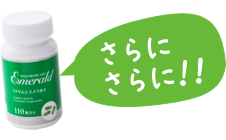
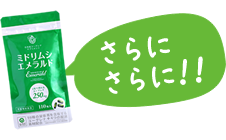
20191010 (スマホも完了)サイト画像を新パウチに変更 ※しばらくボトルメインで「パウチはこちらで買えます」ボタンで対応するそうなので、別ブランチで置いておきます

diff --git a/sp/order/emerald01.html b/sp/order/emerald01.html
@@ -57,12 +57,12 @@ j=d.createElement(s),dl=l!='dataLayer'?'&l='+l:'';j.async=true;j.src=
 <!-- InstanceBeginEditable name="article" -->
 <article id="container" class="order">
   <h2>ミドリムシエメラルド １個110粒</h2>
-  <div id="slider">
+  <!-- <div id="slider">
     <div class="item active"><img src="../img/order_emerald/emerald01b.jpg" alt="Slide 1" class="img40"></div>
-    <div class="item"><a href="emerald_sl01.html" target="_blank" class="zoom26"><img src="../../img/order_emerald/bottle1b.jpg" alt="Slide 2" class="img25"><span class="zoom"> </span></a></div>
-    <div class="item"><a href="emerald_sl02.html" target="_blank" class="zoom26"><img src="../../img/order_emerald/bottle2b.jpg" alt="Slide 3" class="img25"><span class="zoom"> </span></a></div>
-    <div class="item"><a href="emerald_sl03.html" target="_blank" class="zoom26"><img src="../../img/order_emerald/bottle3b.jpg" alt="Slide 4" class="img25"><span class="zoom"> </span></a></div>
-  </div><section class="orderdetail">
+<div class="item"><a href="emerald_sl01.html" target="_blank" class="zoom26"><img src="../../img/order_emerald/bottle1b.jpg" alt="Slide 2" class="img25"><span class="zoom"> </span></a></div><div class="item"><a href="emerald_sl02.html" target="_blank" class="zoom26"><img src="../../img/order_emerald/bottle2b.jpg" alt="Slide 3" class="img25"><span class="zoom"> </span></a></div><div class="item"><a href="emerald_sl03.html" target="_blank" class="zoom26"><img src="../../img/order_emerald/bottle3b.jpg" alt="Slide 4" class="img25"><span class="zoom"> </span></a></div>
+  </div> -->
+  <div class="itemimg"><img src="../img/order_emerald/emerald01b.jpg"></div>
+  <section class="orderdetail">
     <div class="aboutbox">
       <section class="aboutitem">
         <p class="itemname">ミドリムシエメラルド</p>

diff --git a/sp/order/emerald30.html b/sp/order/emerald30.html
@@ -58,10 +58,11 @@ j=d.createElement(s),dl=l!='dataLayer'?'&l='+l:'';j.async=true;j.src=
 <!-- InstanceBeginEditable name="article" -->
 <article id="container" class="order">
   <h2>ミドリムシエメラルド ３０個セット</h2>
-  <div id="slider">
+  <!-- <div id="slider">
     <div class="item active"><img src="../img/order_emerald/emerald30b.jpg" alt="Slide 1" class="img40"></div>
 <div class="item"><a href="emerald_sl01.html" target="_blank" class="zoom26"><img src="../../img/order_emerald/bottle1b.jpg" alt="Slide 2" class="img25"><span class="zoom"> </span></a></div><div class="item"><a href="emerald_sl02.html" target="_blank" class="zoom26"><img src="../../img/order_emerald/bottle2b.jpg" alt="Slide 3" class="img25"><span class="zoom"> </span></a></div><div class="item"><a href="emerald_sl03.html" target="_blank" class="zoom26"><img src="../../img/order_emerald/bottle3b.jpg" alt="Slide 4" class="img25"><span class="zoom"> </span></a></div>
-  </div><!-- #BeginLibraryItem "/Library/emerald_detail.lbi" -->
+  </div> -->
+  <div class="itemimg"><img src="../img/order_emerald/emerald30b.jpg"></div><!-- #BeginLibraryItem "/Library/emerald_detail.lbi" -->
 <div class="w96 mt-10">
 <dl>
   <dt>●商品名</dt>

diff --git a/sp/order/emerald24.html b/sp/order/emerald24.html
@@ -62,10 +62,11 @@ document.write(addIp);
 <!-- InstanceBeginEditable name="article" -->
 <article id="container" class="order">
   <h2>ミドリムシエメラルド ２４個セット</h2>
-  <div id="slider">
+  <!-- <div id="slider">
     <div class="item active"><img src="../img/order_emerald/emerald24b.jpg" alt="Slide 1" class="img40"></div>
 <div class="item"><a href="emerald_sl01.html" target="_blank" class="zoom26"><img src="../../img/order_emerald/bottle1b.jpg" alt="Slide 2" class="img25"><span class="zoom"> </span></a></div><div class="item"><a href="emerald_sl02.html" target="_blank" class="zoom26"><img src="../../img/order_emerald/bottle2b.jpg" alt="Slide 3" class="img25"><span class="zoom"> </span></a></div><div class="item"><a href="emerald_sl03.html" target="_blank" class="zoom26"><img src="../../img/order_emerald/bottle3b.jpg" alt="Slide 4" class="img25"><span class="zoom"> </span></a></div>
-  </div><!-- #BeginLibraryItem "/Library/emerald_detail.lbi" -->
+  </div> -->
+  <div class="itemimg"><img src="../img/order_emerald/emerald24b.jpg"></div><!-- #BeginLibraryItem "/Library/emerald_detail.lbi" -->
 <div class="w96 mt-10">
 <dl>
   <dt>●商品名</dt>

diff --git a/sp/order/emerald10.html b/sp/order/emerald10.html
@@ -58,10 +58,11 @@ j=d.createElement(s),dl=l!='dataLayer'?'&l='+l:'';j.async=true;j.src=
 <!-- InstanceBeginEditable name="article" -->
 <article id="container" class="order">
   <h2>ミドリムシエメラルド １０個セット</h2>
-  <div id="slider">
+  <!-- <div id="slider">
     <div class="item active"><img src="../img/order_emerald/emerald10b.jpg" alt="Slide 1" class="img40"></div>
 <div class="item"><a href="emerald_sl01.html" target="_blank" class="zoom26"><img src="../../img/order_emerald/bottle1b.jpg" alt="Slide 2" class="img25"><span class="zoom"> </span></a></div><div class="item"><a href="emerald_sl02.html" target="_blank" class="zoom26"><img src="../../img/order_emerald/bottle2b.jpg" alt="Slide 3" class="img25"><span class="zoom"> </span></a></div><div class="item"><a href="emerald_sl03.html" target="_blank" class="zoom26"><img src="../../img/order_emerald/bottle3b.jpg" alt="Slide 4" class="img25"><span class="zoom"> </span></a></div>
-  </div>
+  </div> -->
+  <div class="itemimg"><img src="../img/order_emerald/emerald10b.jpg"></div>
   <section class="orderdetail">
     <div class="aboutbox">
       <section class="aboutitem">

diff --git a/sp/order/emerald12.html b/sp/order/emerald12.html
@@ -58,10 +58,11 @@ j=d.createElement(s),dl=l!='dataLayer'?'&l='+l:'';j.async=true;j.src=
 <!-- InstanceBeginEditable name="article" -->
 <article id="container" class="order">
   <h2>ミドリムシエメラルド １２個セット</h2>
-  <div id="slider">
+  <!-- <div id="slider">
     <div class="item active"><img src="../img/order_emerald/emerald12b.jpg" alt="Slide 1" class="img40"></div>
 <div class="item"><a href="emerald_sl01.html" target="_blank" class="zoom26"><img src="../../img/order_emerald/bottle1b.jpg" alt="Slide 2" class="img25"><span class="zoom"> </span></a></div><div class="item"><a href="emerald_sl02.html" target="_blank" class="zoom26"><img src="../../img/order_emerald/bottle2b.jpg" alt="Slide 3" class="img25"><span class="zoom"> </span></a></div><div class="item"><a href="emerald_sl03.html" target="_blank" class="zoom26"><img src="../../img/order_emerald/bottle3b.jpg" alt="Slide 4" class="img25"><span class="zoom"> </span></a></div>
-  </div>
+  </div> -->
+  <div class="itemimg"><img src="../img/order_emerald/emerald12b.jpg"></div>
   <section class="orderdetail">
     <div class="aboutbox">
       <section class="aboutitem">

diff --git a/sp/order/emerald15.html b/sp/order/emerald15.html
@@ -58,10 +58,11 @@ j=d.createElement(s),dl=l!='dataLayer'?'&l='+l:'';j.async=true;j.src=
 <!-- InstanceBeginEditable name="article" -->
 <article id="container" class="order">
   <h2>ミドリムシエメラルド １５個セット</h2>
-  <div id="slider">
+  <!-- <div id="slider">
     <div class="item active"><img src="../img/order_emerald/emerald15b.jpg" alt="Slide 1" class="img40"></div>
 <div class="item"><a href="emerald_sl01.html" target="_blank" class="zoom26"><img src="../../img/order_emerald/bottle1b.jpg" alt="Slide 2" class="img25"><span class="zoom"> </span></a></div><div class="item"><a href="emerald_sl02.html" target="_blank" class="zoom26"><img src="../../img/order_emerald/bottle2b.jpg" alt="Slide 3" class="img25"><span class="zoom"> </span></a></div><div class="item"><a href="emerald_sl03.html" target="_blank" class="zoom26"><img src="../../img/order_emerald/bottle3b.jpg" alt="Slide 4" class="img25"><span class="zoom"> </span></a></div>
-  </div>
+  </div> -->
+  <div class="itemimg"><img src="../img/order_emerald/emerald15b.jpg"></div>
   <section class="orderdetail">
     <div class="aboutbox">
       <section class="aboutitem">

diff --git a/sp/order/emerald20.html b/sp/order/emerald20.html
@@ -58,10 +58,11 @@ j=d.createElement(s),dl=l!='dataLayer'?'&l='+l:'';j.async=true;j.src=
 <!-- InstanceBeginEditable name="article" -->
 <article id="container" class="order">
   <h2>ミドリムシエメラルド ２０個セット</h2>
-  <div id="slider">
+  <!-- <div id="slider">
     <div class="item active"><img src="../img/order_emerald/emerald20b.jpg" alt="Slide 1" class="img40"></div>
 <div class="item"><a href="emerald_sl01.html" target="_blank" class="zoom26"><img src="../../img/order_emerald/bottle1b.jpg" alt="Slide 2" class="img25"><span class="zoom"> </span></a></div><div class="item"><a href="emerald_sl02.html" target="_blank" class="zoom26"><img src="../../img/order_emerald/bottle2b.jpg" alt="Slide 3" class="img25"><span class="zoom"> </span></a></div><div class="item"><a href="emerald_sl03.html" target="_blank" class="zoom26"><img src="../../img/order_emerald/bottle3b.jpg" alt="Slide 4" class="img25"><span class="zoom"> </span></a></div>
-  </div>
+  </div> -->
+  <div class="itemimg"><img src="../img/order_emerald/emerald20b.jpg"></div>
   <section class="orderdetail">
     <div class="aboutbox">
       <section class="aboutitem">

diff --git a/sp/order/emerald02.html b/sp/order/emerald02.html
@@ -57,10 +57,11 @@ j=d.createElement(s),dl=l!='dataLayer'?'&l='+l:'';j.async=true;j.src=
 <!-- InstanceBeginEditable name="article" -->
 <article id="container" class="order">
   <h2>ミドリムシエメラルド ２個セット</h2>
-  <div id="slider">
+  <!-- <div id="slider">
     <div class="item active"><img src="../img/order_emerald/emerald02b.jpg" alt="Slide 1" class="img40"></div>
 <div class="item"><a href="emerald_sl01.html" target="_blank" class="zoom26"><img src="../../img/order_emerald/bottle1b.jpg" alt="Slide 2" class="img25"><span class="zoom"> </span></a></div><div class="item"><a href="emerald_sl02.html" target="_blank" class="zoom26"><img src="../../img/order_emerald/bottle2b.jpg" alt="Slide 3" class="img25"><span class="zoom"> </span></a></div><div class="item"><a href="emerald_sl03.html" target="_blank" class="zoom26"><img src="../../img/order_emerald/bottle3b.jpg" alt="Slide 4" class="img25"><span class="zoom"> </span></a></div>
-  </div>
+  </div> -->
+  <div class="itemimg"><img src="../img/order_emerald/emerald02b.jpg"></div>
   <section class="orderdetail">
     <div class="aboutbox">
       <section class="aboutitem">

diff --git a/sp/order/emerald03.html b/sp/order/emerald03.html
@@ -57,10 +57,11 @@ j=d.createElement(s),dl=l!='dataLayer'?'&l='+l:'';j.async=true;j.src=
 <!-- InstanceBeginEditable name="article" -->
 <article id="container" class="order">
   <h2>ミドリムシエメラルド ３個セット</h2>
-  <div id="slider">
+  <!-- <div id="slider">
     <div class="item active"><img src="../img/order_emerald/emerald03b.jpg" alt="Slide 1" class="img40"></div>
 <div class="item"><a href="emerald_sl01.html" target="_blank" class="zoom26"><img src="../../img/order_emerald/bottle1b.jpg" alt="Slide 2" class="img25"><span class="zoom"> </span></a></div><div class="item"><a href="emerald_sl02.html" target="_blank" class="zoom26"><img src="../../img/order_emerald/bottle2b.jpg" alt="Slide 3" class="img25"><span class="zoom"> </span></a></div><div class="item"><a href="emerald_sl03.html" target="_blank" class="zoom26"><img src="../../img/order_emerald/bottle3b.jpg" alt="Slide 4" class="img25"><span class="zoom"> </span></a></div>
-  </div>
+  </div> -->
+  <div class="itemimg"><img src="../img/order_emerald/emerald03b.jpg"></div>
   <section class="orderdetail">
     <div class="aboutbox">
       <section class="aboutitem">

diff --git a/sp/order/emerald04.html b/sp/order/emerald04.html
@@ -57,10 +57,11 @@ j=d.createElement(s),dl=l!='dataLayer'?'&l='+l:'';j.async=true;j.src=
 <!-- InstanceBeginEditable name="article" -->
 <article id="container" class="order">
   <h2>ミドリムシエメラルド ４個セット</h2>
-  <div id="slider">
+  <!-- <div id="slider">
     <div class="item active"><img src="../img/order_emerald/emerald04b.jpg" alt="Slide 1" class="img40"></div>
 <div class="item"><a href="emerald_sl01.html" target="_blank" class="zoom26"><img src="../../img/order_emerald/bottle1b.jpg" alt="Slide 2" class="img25"><span class="zoom"> </span></a></div><div class="item"><a href="emerald_sl02.html" target="_blank" class="zoom26"><img src="../../img/order_emerald/bottle2b.jpg" alt="Slide 3" class="img25"><span class="zoom"> </span></a></div><div class="item"><a href="emerald_sl03.html" target="_blank" class="zoom26"><img src="../../img/order_emerald/bottle3b.jpg" alt="Slide 4" class="img25"><span class="zoom"> </span></a></div>
-  </div>
+  </div> -->
+  <div class="itemimg"><img src="../img/order_emerald/emerald04b.jpg"></div>
   <section class="orderdetail">
     <div class="aboutbox">
       <section class="aboutitem">

diff --git a/sp/order/emerald05.html b/sp/order/emerald05.html
@@ -57,10 +57,11 @@ j=d.createElement(s),dl=l!='dataLayer'?'&l='+l:'';j.async=true;j.src=
 <!-- InstanceBeginEditable name="article" -->
 <article id="container" class="order">
   <h2>ミドリムシエメラルド ５個セット</h2>
-  <div id="slider">
+  <!-- <div id="slider">
     <div class="item active"><img src="../img/order_emerald/emerald05b.jpg" alt="Slide 1" class="img40"></div>
 <div class="item"><a href="emerald_sl01.html" target="_blank" class="zoom26"><img src="../../img/order_emerald/bottle1b.jpg" alt="Slide 2" class="img25"><span class="zoom"> </span></a></div><div class="item"><a href="emerald_sl02.html" target="_blank" class="zoom26"><img src="../../img/order_emerald/bottle2b.jpg" alt="Slide 3" class="img25"><span class="zoom"> </span></a></div><div class="item"><a href="emerald_sl03.html" target="_blank" class="zoom26"><img src="../../img/order_emerald/bottle3b.jpg" alt="Slide 4" class="img25"><span class="zoom"> </span></a></div>
-  </div>
+  </div> -->
+  <div class="itemimg"><img src="../img/order_emerald/emerald05b.jpg"></div>
   <section class="orderdetail">
     <div class="aboutbox">
       <section class="aboutitem">

diff --git a/sp/order/emerald06.html b/sp/order/emerald06.html
@@ -57,10 +57,11 @@ j=d.createElement(s),dl=l!='dataLayer'?'&l='+l:'';j.async=true;j.src=
 <!-- InstanceBeginEditable name="article" -->
 <article id="container" class="order">
   <h2>ミドリムシエメラルド ６個セット</h2>
-  <div id="slider">
+  <!-- <div id="slider">
     <div class="item active"><img src="../img/order_emerald/emerald06b.jpg" alt="Slide 1" class="img40"></div>
 <div class="item"><a href="emerald_sl01.html" target="_blank" class="zoom26"><img src="../../img/order_emerald/bottle1b.jpg" alt="Slide 2" class="img25"><span class="zoom"> </span></a></div><div class="item"><a href="emerald_sl02.html" target="_blank" class="zoom26"><img src="../../img/order_emerald/bottle2b.jpg" alt="Slide 3" class="img25"><span class="zoom"> </span></a></div><div class="item"><a href="emerald_sl03.html" target="_blank" class="zoom26"><img src="../../img/order_emerald/bottle3b.jpg" alt="Slide 4" class="img25"><span class="zoom"> </span></a></div>
-  </div>
+  </div> -->
+  <div class="itemimg"><img src="../img/order_emerald/emerald06b.jpg"></div>
   <section class="orderdetail">
     <div class="aboutbox">
       <section class="aboutitem">
